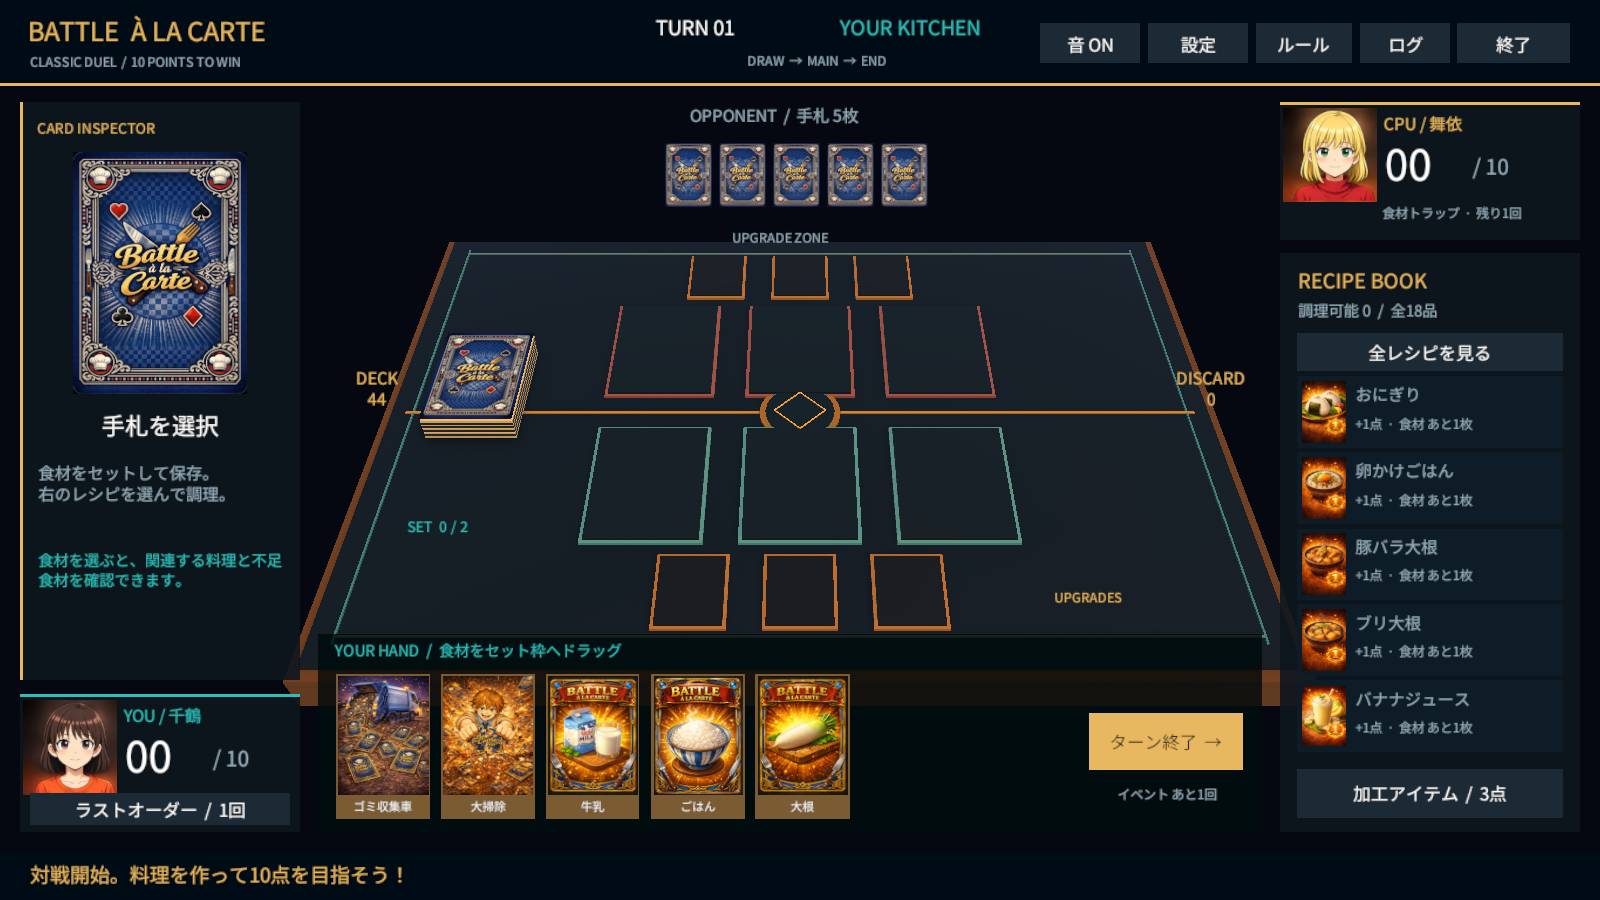
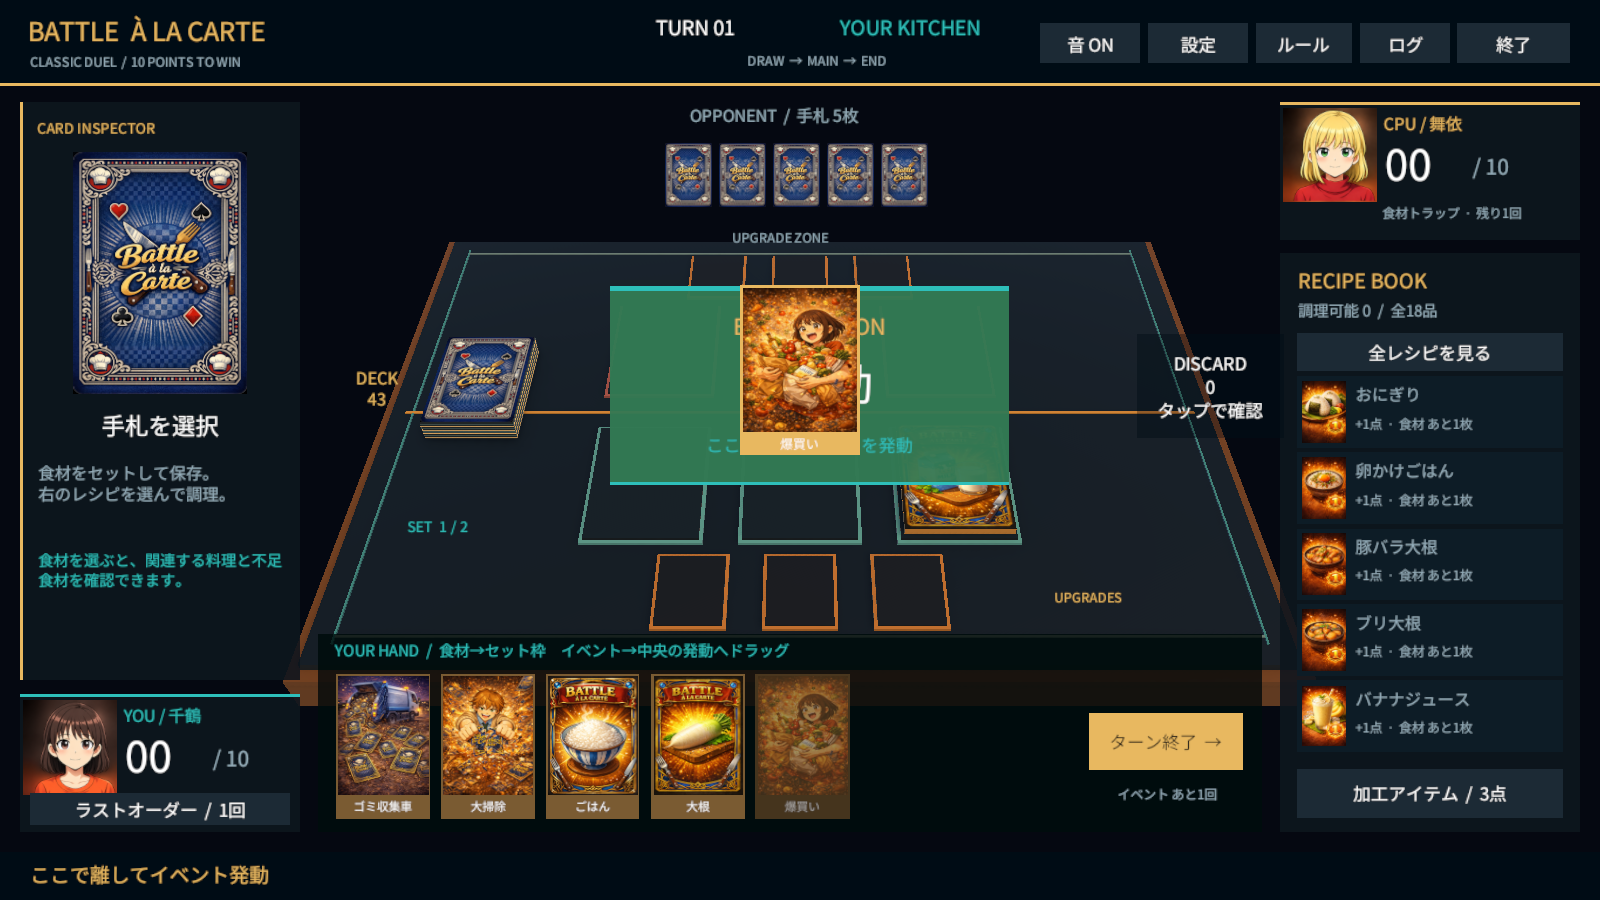
Publish Battle à la carte v0.2.0

diff --git a/index.html b/index.html
@@ -15,10 +15,11 @@
 <p class="label">ANIANI ORIGINAL / NEW 3D EDITION</p>
 <h1>Battle à la carte<span>Unity版（3D版）</span></h1>
 <p class="lead">3Dの調理台で、あなただけの一皿を。<br>材料カードを集め、料理を完成させて得点を競うCPU対戦ゲーム。</p>
-<p class="notice">公開中＆追加要素可能性あり / Windows 64-bit専用 / v0.1.0</p>
+<p class="notice">公開中＆追加要素可能性あり / Windows 64-bit専用 / v0.2.0</p>
 <img src="battle-3d.png" alt="3Dの調理台に材料カードが並ぶUnity版の対戦画面">
-<div class="actions"><a class="button" href="https://github.com/donadonaa24-cyber/battle-a-la-carte-3d/releases/download/v0.1.0/BattleALaCarte-3D-Windows-v0.1.0.zip">Windows版をダウンロード</a><a class="button secondary" href="https://github.com/donadonaa24-cyber/battle-a-la-carte-3d/releases/tag/v0.1.0">リリース情報</a></div>
-<section><h2>Web版とは別の、新しい作品</h2><p>Unityによる3D調理台と料理演出、CPU戦、ストーリーモード、プロフィール・戦績、ギャラリーを搭載。Web版のアカウントや保存データとは連携していません。オンライン対戦・共通あにあにコイン連携は未実装です。</p></section>
-<section><h2>遊び方と対応環境</h2><ol><li>Windows PCでZIPをダウンロードします。</li><li>ZIPをすべて展開します。</li><li>展開したフォルダのBattleALaCarte.exeを起動します。</li></ol><p>BattleALaCarte_Data、UnityPlayer.dllなどの同梱ファイルを移動・削除しないでください。exeだけでは動作しません。</p><p class="notice">現在はブラウザ実行・WebGL・Android・iPhoneに対応していません。スマートフォンでは紹介のみ閲覧できます。</p><p>マウスで材料カードを空のセット枠へドラッグして配置します。その他の操作はゲーム内の案内を確認してください。</p></section>
+<div class="actions"><a class="button" href="https://github.com/donadonaa24-cyber/battle-a-la-carte-3d/releases/download/v0.2.0/BattleALaCarte-3D-Windows-v0.2.0.zip">Windows版をダウンロード</a><a class="button secondary" href="https://github.com/donadonaa24-cyber/battle-a-la-carte-3d/releases/tag/v0.2.0">リリース情報</a></div>
+<section><h2>Web版とは別の、新しい作品</h2><p>Unityによる3D調理台と料理演出、CPU戦、ストーリーモード、プロフィール・戦績、ギャラリーを搭載。Web版のアカウントや保存データとは連携していません。オンライン対戦・共通あにあにコイン連携は未実装です。</p></section><section><h2>v0.2.0 アップデート</h2><p>イベントカードを中央の発動ゾーンへドラッグして使用できるようになりました。捨て札一覧、CPUの考え中表示、枚数に応じて変わるカード山の厚みを追加し、カード発動と料理完成の演出も強化しています。</p><p>版ごとの詳しい内容は、ダウンロードZIP内のVERSION_NOTES.txtで確認できます。</p></section>
+<section><h2>遊び方と対応環境</h2><ol><li>Windows PCでZIPをダウンロードします。</li><li>ZIPをすべて展開します。</li><li>展開したフォルダのBattleALaCarte.exeを起動します。</li></ol><p>BattleALaCarte_Data、UnityPlayer.dllなどの同梱ファイルを移動・削除しないでください。exeだけでは動作しません。</p><p class="notice">現在はブラウザ実行・WebGL・Android・iPhoneに対応していません。スマートフォンでは紹介のみ閲覧できます。</p><p>マウスで材料カードを空のセット枠へ、イベントカードを中央の発動ゾーンへドラッグします。その他の操作はゲーム内の案内を確認してください。</p></section>
 <footer>ANIANI / PLAY UNIVERSE</footer>
 </main></body></html>
+

diff --git a/README.md b/README.md
@@ -1,7 +1,7 @@
 # Battle à la carte Unity版（3D版）
 
 既存Web版とは別作品のWindows 64-bitダウンロードゲームです。
-公開中＆追加要素可能性あり。バージョン0.1.0、Unity 6000.6.0f1。
+公開中＆追加要素可能性あり。バージョン0.2.0、Unity 6000.6.0f1。
 
 このリポジトリは紹介ページと配布用の管理リポジトリです。
 Unityプロジェクトのソース一式は含みません。Windows成果物はReleasesに保存します。
@@ -18,8 +18,18 @@ DataフォルダやDLLを削除・分離しないでください。
 ブラウザでexeを実行することはできません。WebGL/Android/iOS版は未提供です。
 Web版の保存データや共通アカウントとは連携していません。
 
+## v0.2.0
+
+- イベントカードの中央発動ゾーンと、捨て札の内容確認を追加。
+- イベント・加工カードと料理完成の演出を強化。
+- CPUの思考時間と考え中表示を追加。
+- 山札と捨て札の厚みがカード枚数に応じて変化。
+
+版ごとの詳しい変更内容は、配布ZIPに同梱した `VERSION_NOTES.txt` で確認できます。
+
 ## 公開方式
 
 GitHub Pagesは`main`のルートを静的配信します。
-配布ZIPはRelease `v0.1.0`のアセットとしてアップロードします。
+配布ZIPはRelease `v0.2.0`のアセットとしてアップロードします。
 デバッグ用バックアップ、ログ、認証情報は配布対象外です。
+
